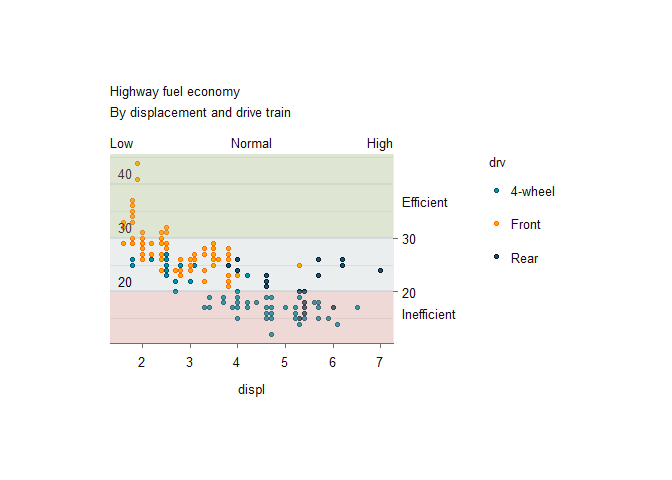
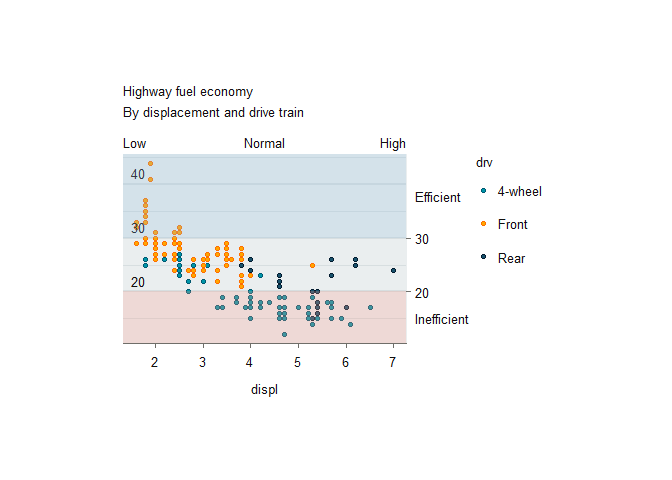
Update

diff --git a/README.md b/README.md
@@ -37,6 +37,7 @@ library(dplyr)
 #> The following objects are masked from 'package:base':
 #> 
 #>     intersect, setdiff, setequal, union
+library(stringr)
 
 set_theme(
   ggrefine::theme_grey(
@@ -54,9 +55,8 @@ ggplot2::mpg |>
   ) |>
   ggplot(aes(x = displ, y = hwy, fill = drv, colour = drv)) +
   geom_point() +
-  scale_fill_discrete(palette = jumble::jumble) +
-  scale_colour_discrete(palette = blends::multiply(jumble::jumble)) +
   ggrefine::refine_modern() +
+  scale_colour_discrete(palette = blends::multiply(jumble::jumble)) +
   #required for ggscribe
   coord_cartesian(clip = "off") +
   #top labels of low, normal, high
@@ -88,14 +88,16 @@ ggplot2::mpg |>
     tick_length = rel(0),
     hjust = 1,
   ) +
-  #hack to create space between legend and right labels
+  #create space between legend and right labels
   scale_y_continuous(
     position = "right",
-    labels = \(x) paste0(x, rep("              ")),
+    labels = \(x) paste0(
+      str_sub(x, 0, 0), #Create space for the word 'Efficient'
+      str_flatten(rep(" ", times = str_length("Efficient") + 2))),
     name = NULL,
   ) +
   #inefficient shade and labels
-  ggscribe::annotate_panel_shade(ymax = 20, , fill = flexoki::flexoki$red["red200"]) +
+  ggscribe::annotate_panel_shade(ymax = 20, fill = flexoki::flexoki$red["red200"]) +
   ggscribe::annotate_axis_text(
     position = "right",
     y = c(20),
@@ -106,12 +108,13 @@ ggplot2::mpg |>
   ) +
   ggscribe::annotate_axis_text(
     position = "right",
-    y = mean(c(min(ggplot2::mpg$hwy), 20)),
+    y = (20 + (range(mpg$hwy)[1] - 0.05 * diff(range(mpg$hwy)))) / 2,
+    vjust = 0.5,
     label = "Inefficient",
     element_to = "transparent",
   ) +
   #efficient shade and labels
-  ggscribe::annotate_panel_shade(ymin = 30, fill = flexoki::flexoki$green["green200"]) +
+  ggscribe::annotate_panel_shade(ymin = 30, fill = flexoki::flexoki$blue["blue200"]) +
   ggscribe::annotate_axis_text(
     position = "right",
     y = c(30),
@@ -122,14 +125,14 @@ ggplot2::mpg |>
   ) +
   ggscribe::annotate_axis_text(
     position = "right",
-    y = mean(c(30, max(ggplot2::mpg$hwy))),
+    y = (30 + (range(mpg$hwy)[2] + 0.05 * diff(range(mpg$hwy)))) / 2,
     label = "Efficient",
   ) +
   #titles
   labs(
-    y = NULL,
     title = "Highway fuel economy",
     subtitle = "By displacement and drive train\n\n",
+    y = NULL,
   )
 ```
 
